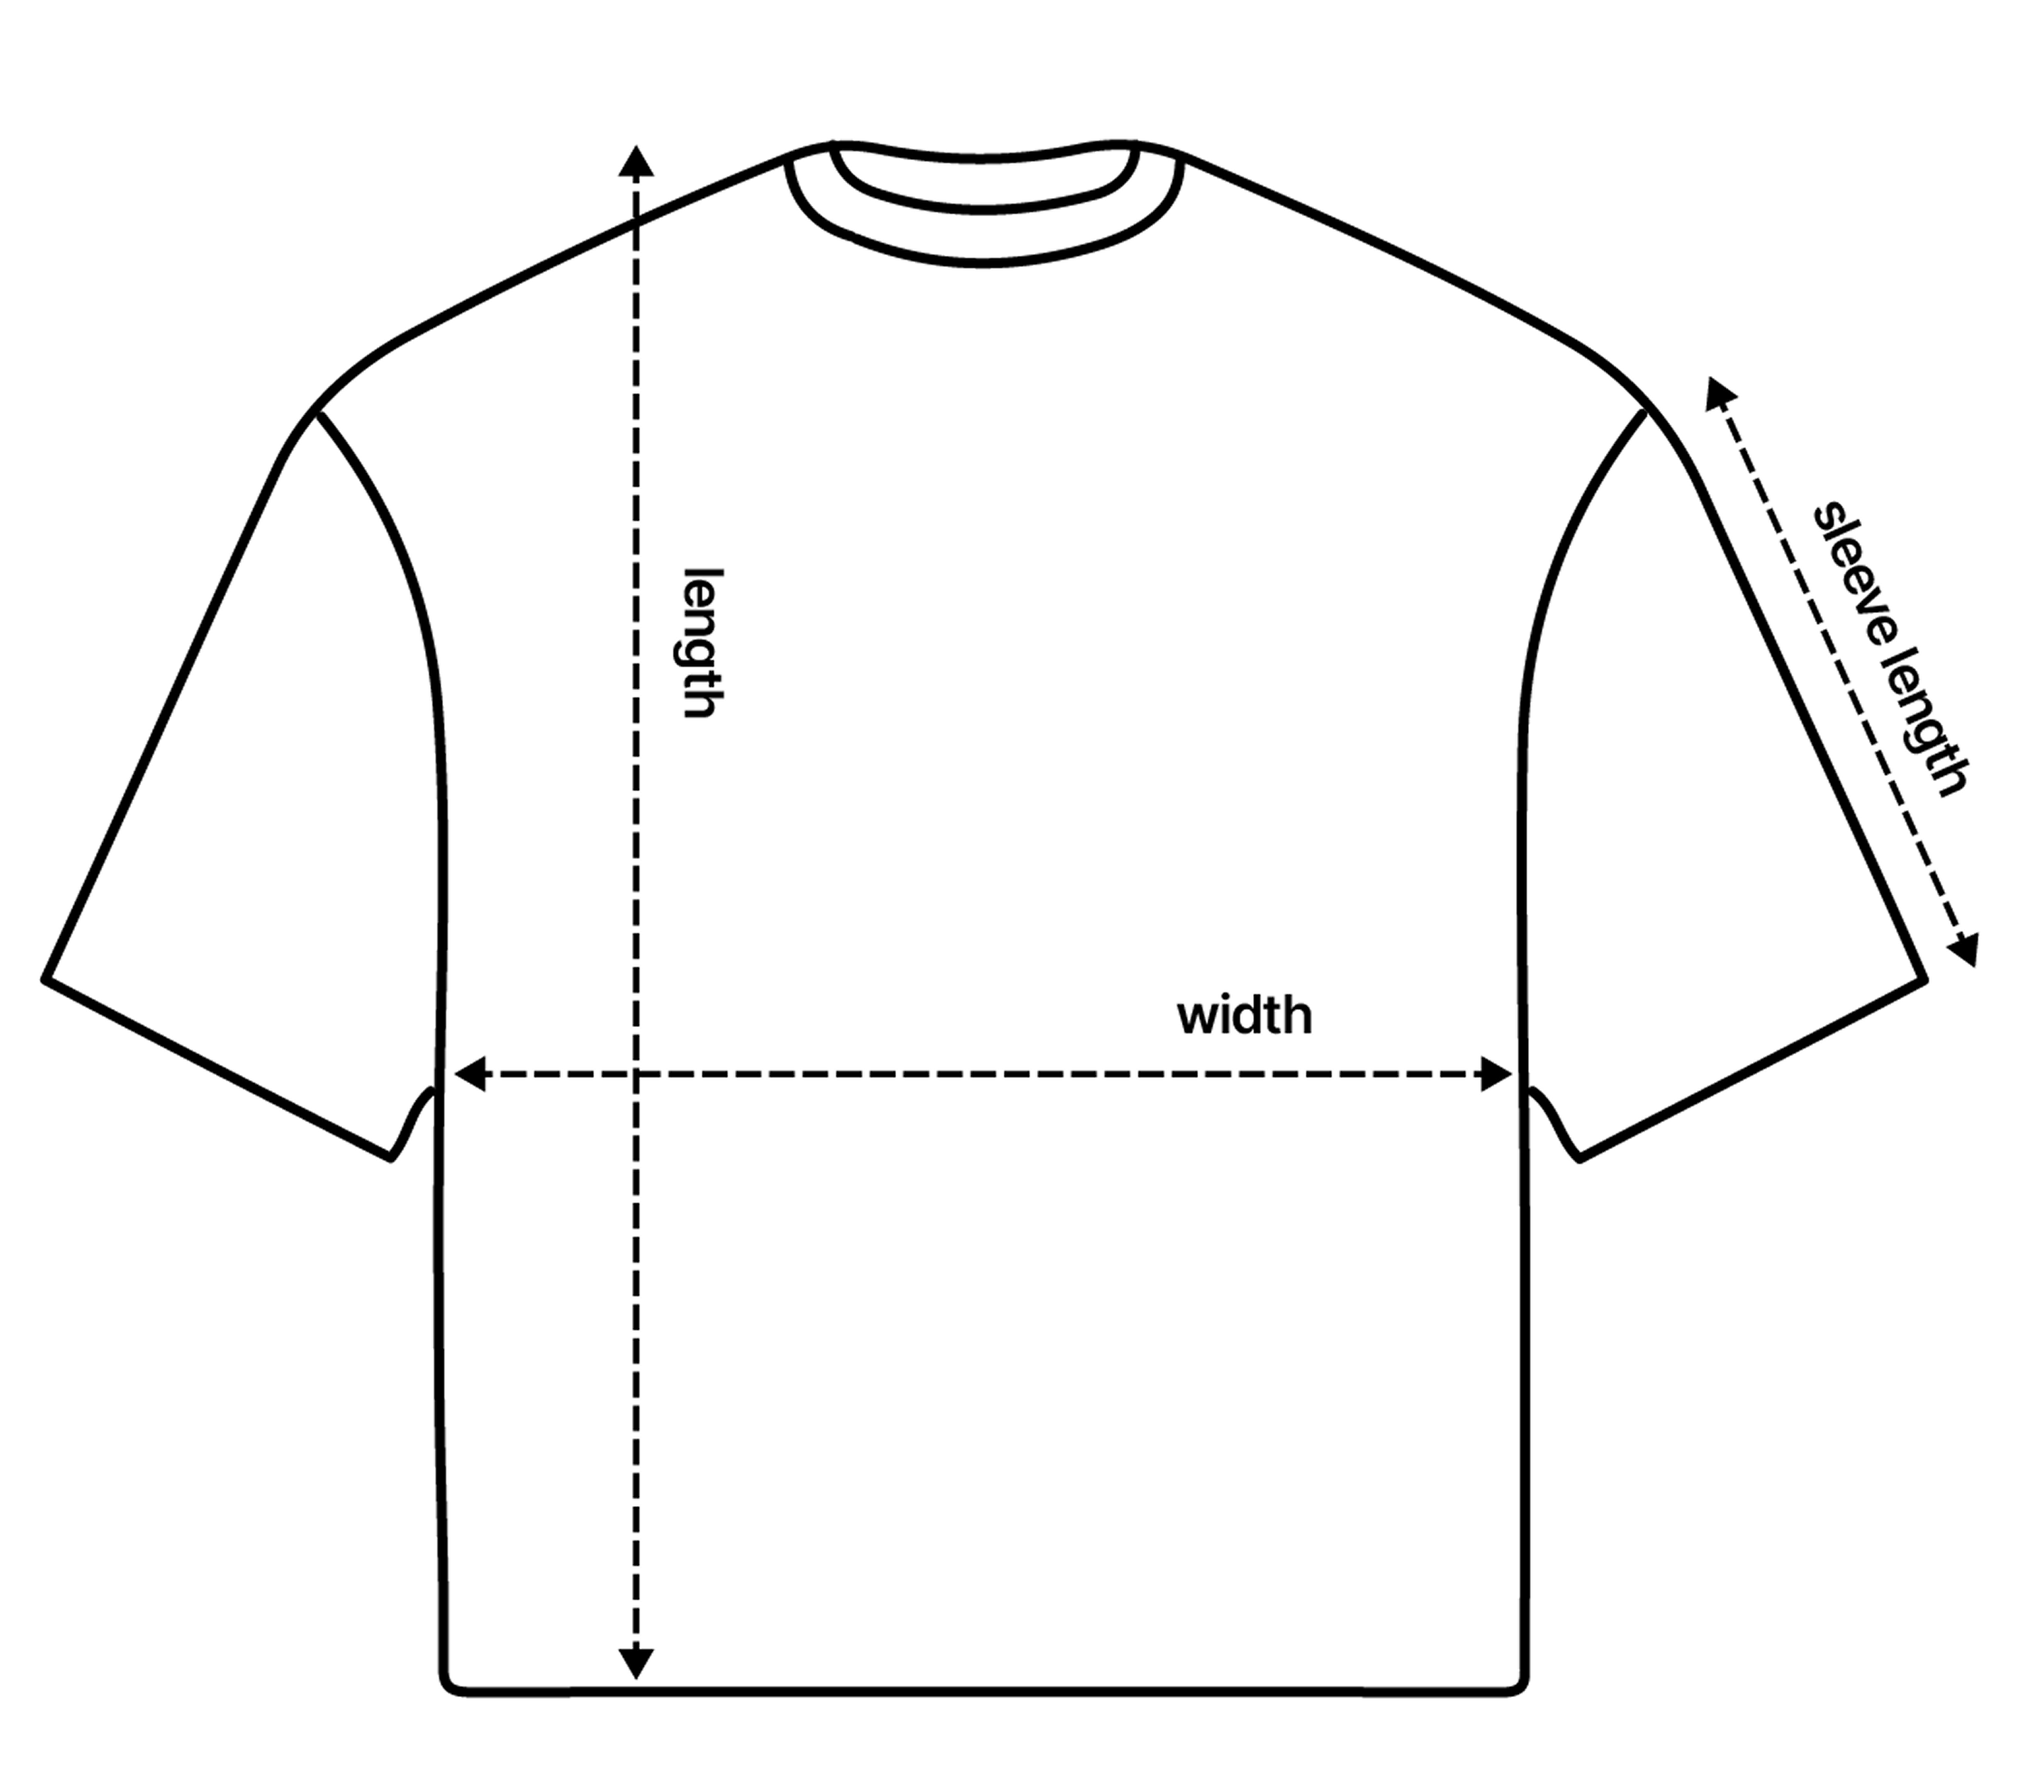
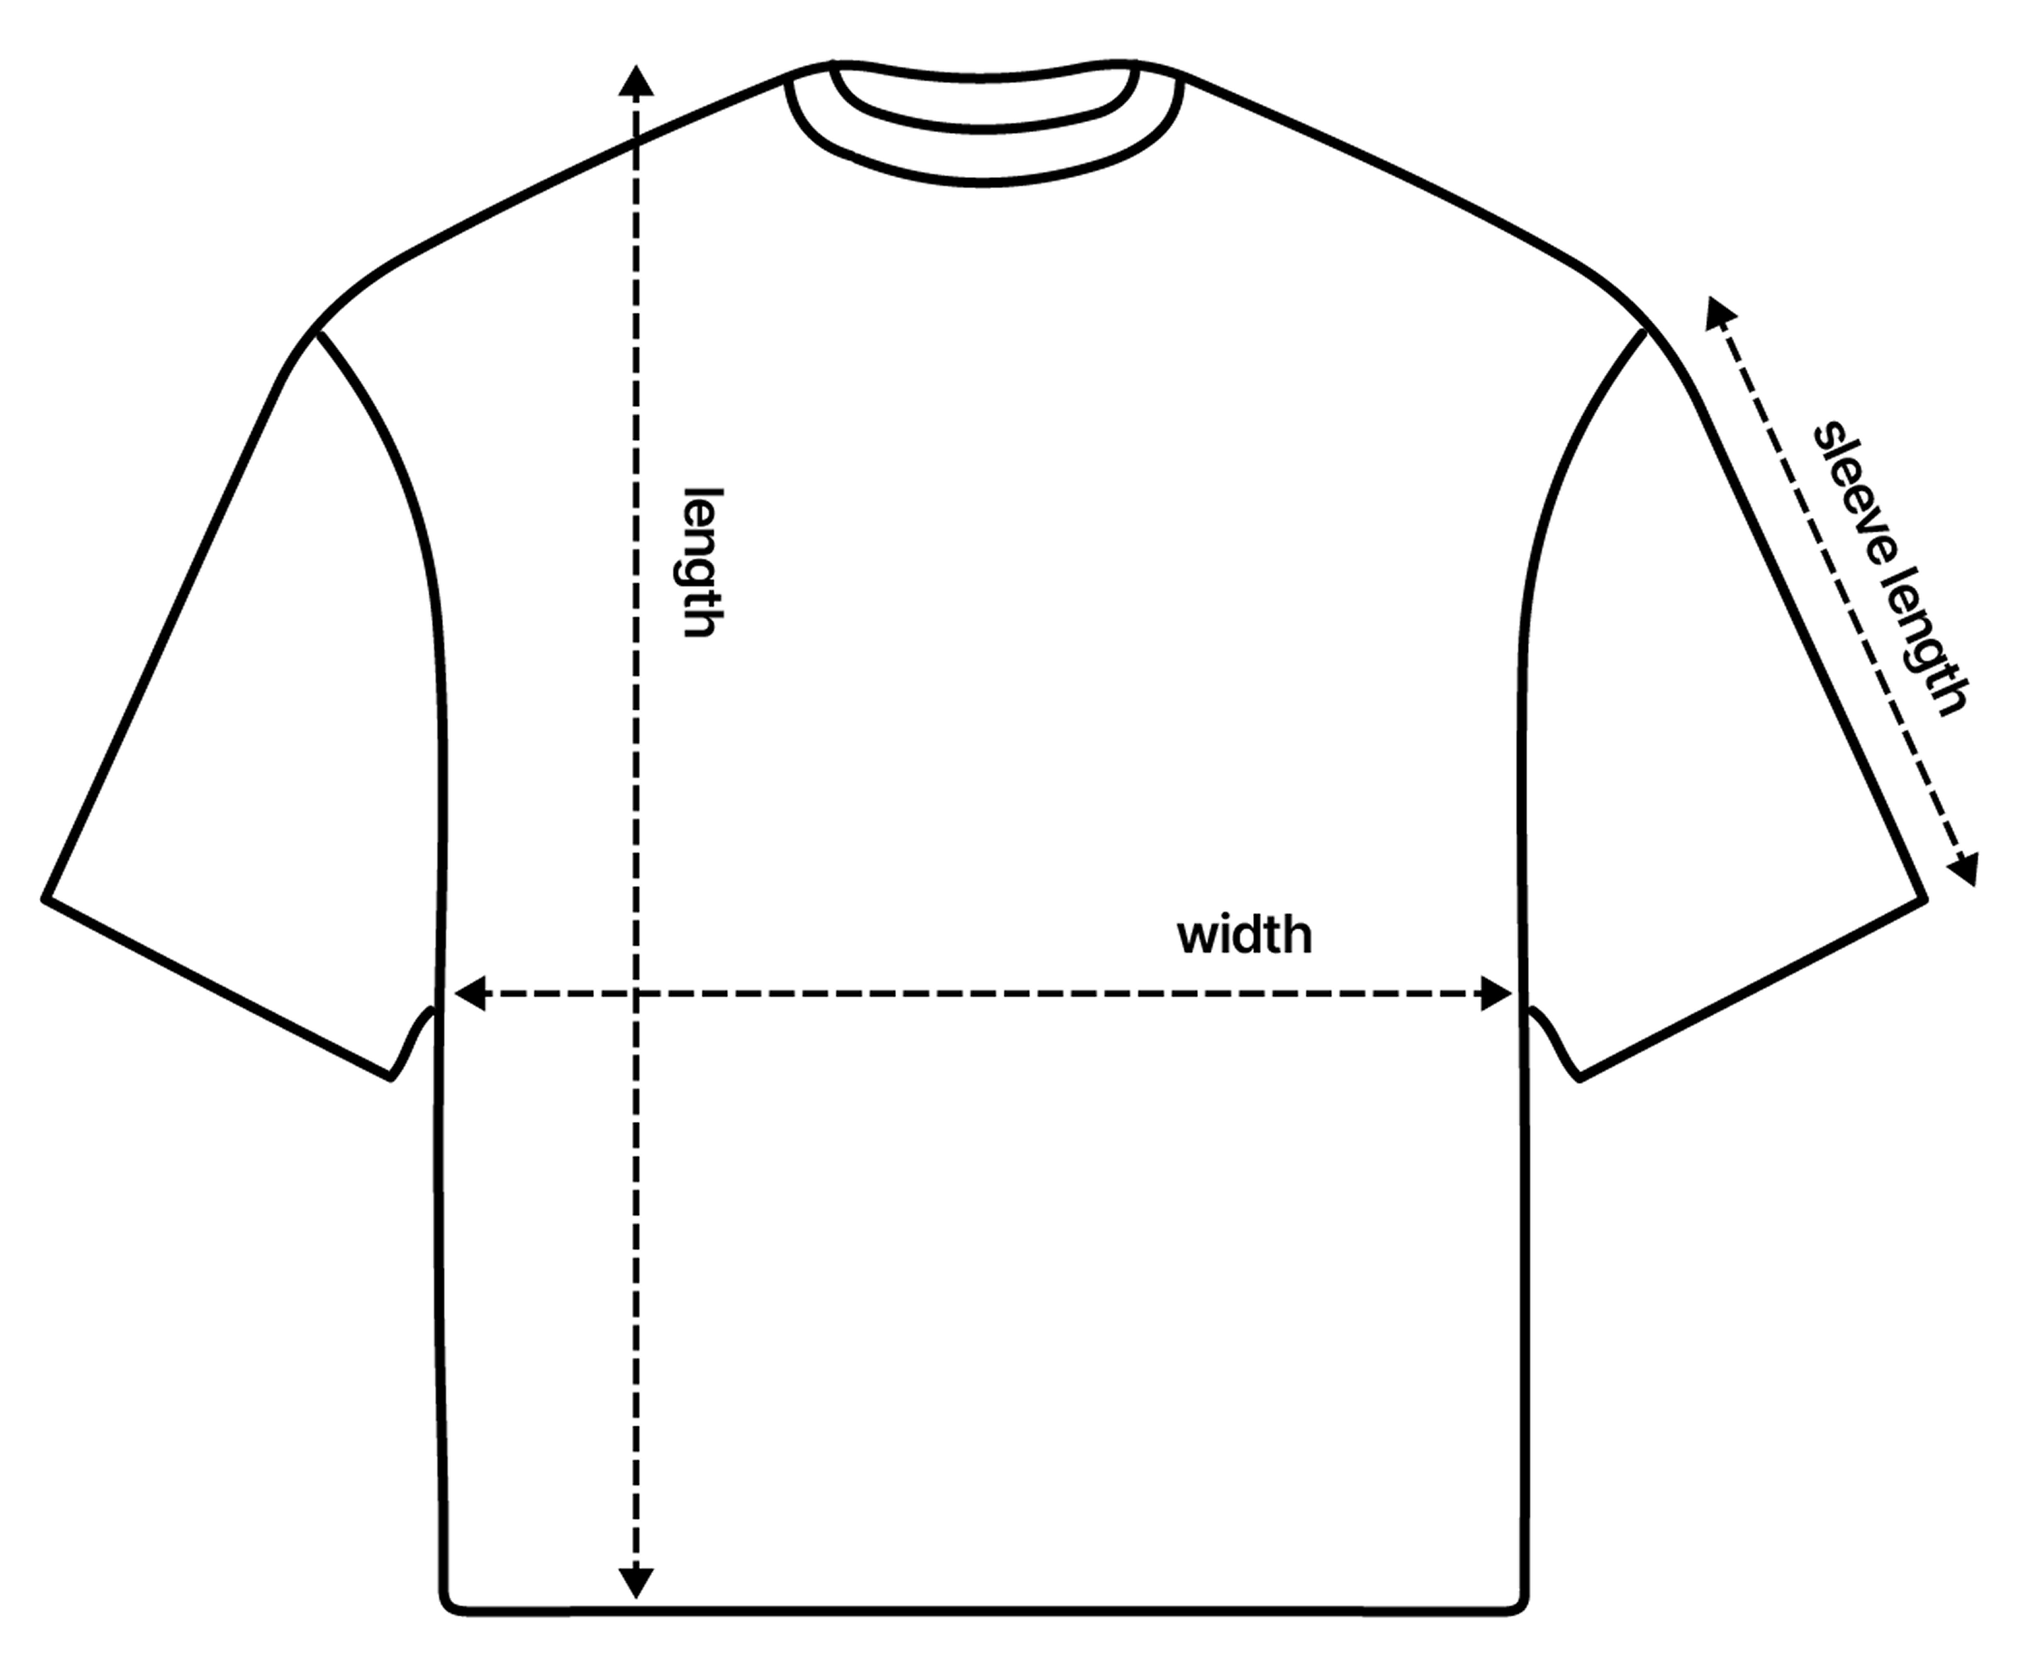
Even out size guide diagrams and drop the hat size guides
Ellen flagged two things: the hat size guide was wrong, and the spacing
around the measurement diagram varied a lot between products (lots of
room above it, tight against Add to Cart, especially on the raglan tees).

- Remove the size guide from both trucker hats and delete the hat SVG.
- Trim the baked-in whitespace from every measurement PNG to a uniform
  3% pad, so the drawing sits the same distance from the table on every
  product.
- Render the diagram at a fixed height with equal spacing above and below,
  so a tee and a pair of pants read the same size and the gap to the
  Add to Cart button matches the gap from the table.

Claude-Session: https://claude.ai/code/session_01NpJMxQ5Vh24NzN7vQGQe4Z

Changed region(s): [[0.0, 0.0307, 0.9938, 0.6764], [0.2174, 0.9223, 0.7453, 0.9838], [0.3106, 0.2767, 0.3727, 0.3997]]

diff --git a/app/styles/app.css b/app/styles/app.css
@@ -2615,22 +2615,30 @@ aside main {
   fill: #000;
 }
 
+/* Measurement diagram under the size table. The diagrams are trimmed to
+   their drawing (no baked-in whitespace) and rendered at one fixed height so
+   every product's garment reads the same size, with the same gap above the
+   diagram as below it: 1.5rem from the table, and 0.5rem here plus the
+   1rem the add-to-cart form pads on top. */
 .product-size-guide-photo {
   margin-top: 1.5rem;
-  margin-bottom: 0;
+  margin-bottom: 0.5rem;
   width: 100%;
   text-align: center;
 }
 
 .product-size-guide-photo img {
-  width: 55%;
-  height: auto;
-  display: inline-block;
+  width: auto;
+  height: 240px;
+  max-width: 100%;
+  display: block;
+  margin: 0 auto;
+  object-fit: contain;
 }
 
 @media (max-width: 45em) {
   .product-size-guide-photo img {
-    width: 80%;
+    height: 200px;
   }
 }
 
@@ -2689,9 +2697,11 @@ aside main {
   display: block;
 }
 
-/* Photo sized down vs. the inline product-page version, scoped to zoom only */
+/* Photo sized down vs. the inline product-page version, scoped to zoom only.
+   Scales with the card instead of the fixed inline height. */
 .size-guide-zoom-content .product-size-guide-photo img {
   width: 45%;
+  height: auto;
 }
 
 .product-main {

diff --git a/app/routes/products.$handle.tsx b/app/routes/products.$handle.tsx
@@ -86,9 +86,6 @@ const SIZE_GUIDE_MAP: Record<string, {sizeGuide: string; sizePhoto?: string}> = 
     sizeGuide: '/products/size-guides/megahertz-zip-hoodie.svg',
     sizePhoto: '/products/measurements/MHZ%20Zip%20Hoodie%20Chart%20(1).png',
   },
-  'afterparty-x-megahertz-trucker-hat': {
-    sizeGuide: '/products/size-guides/horse-trucker-hat.svg',
-  },
   'bubble-letter-ringer-tee': {
     sizeGuide: '/products/size-guides/bubble-letter-ringer-tee.svg',
     sizePhoto: '/products/measurements/Ringer%20Short%20Sleeve%20Tee%20Chart%202.png',
@@ -155,9 +152,6 @@ const SIZE_GUIDE_MAP: Record<string, {sizeGuide: string; sizePhoto?: string}> = 
   'world-biggest-hater-oversized-tee': {
     sizeGuide: '/products/size-guides/hater-tee.svg',
     sizePhoto: '/products/measurements/2025%20Hater%20Oversized%20Short%20Sleeve%20Boxy%20Tee%20Chart%201.png',
-  },
-  'horse-trucker-hat': {
-    sizeGuide: '/products/size-guides/horse-trucker-hat.svg',
   },
   'nhim-tees': {
     sizeGuide: '/products/size-guides/nhim-tees.svg',
